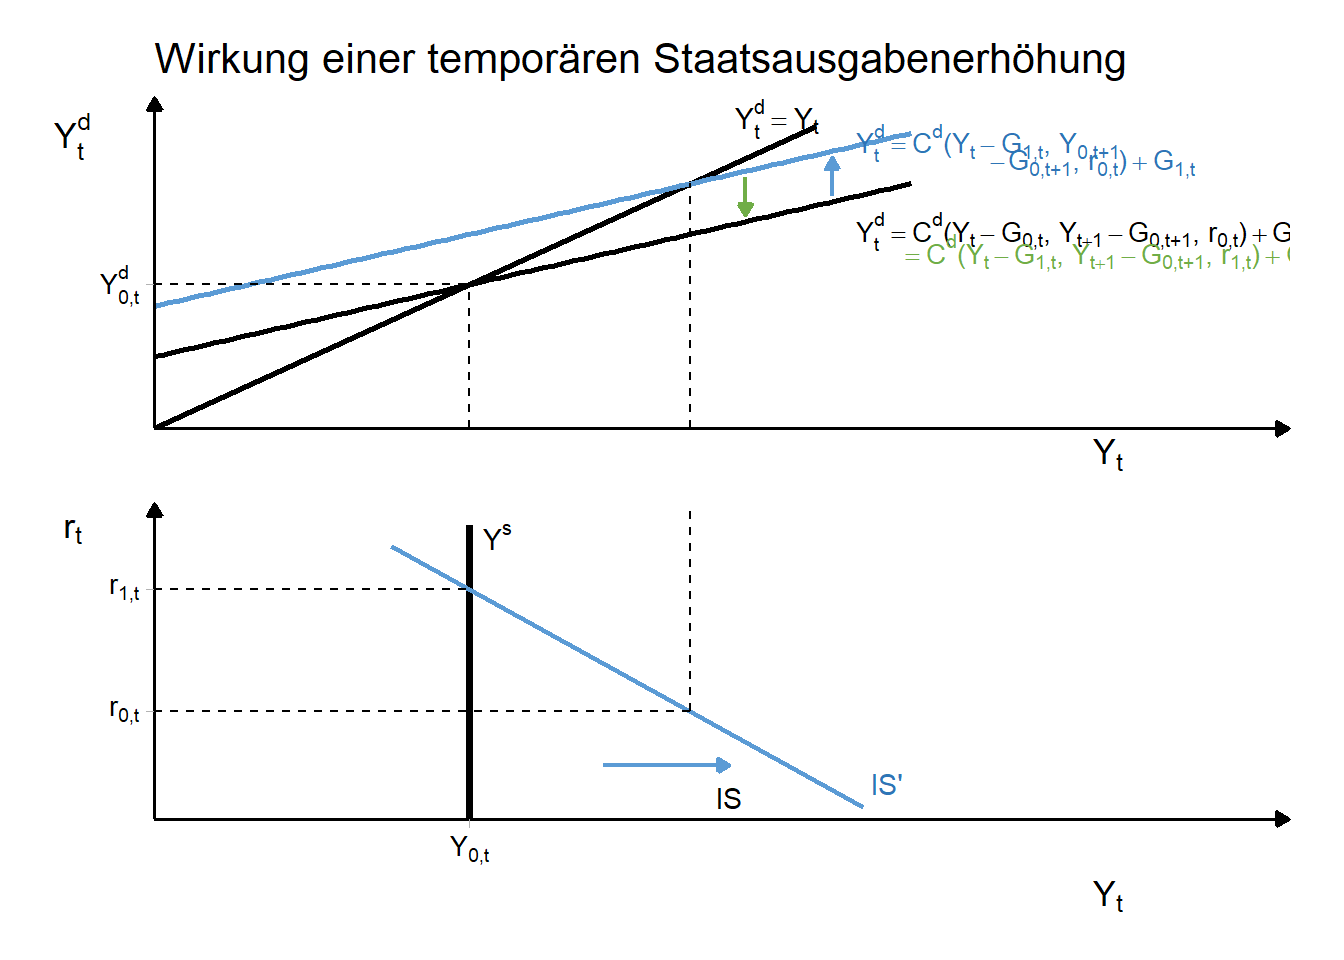
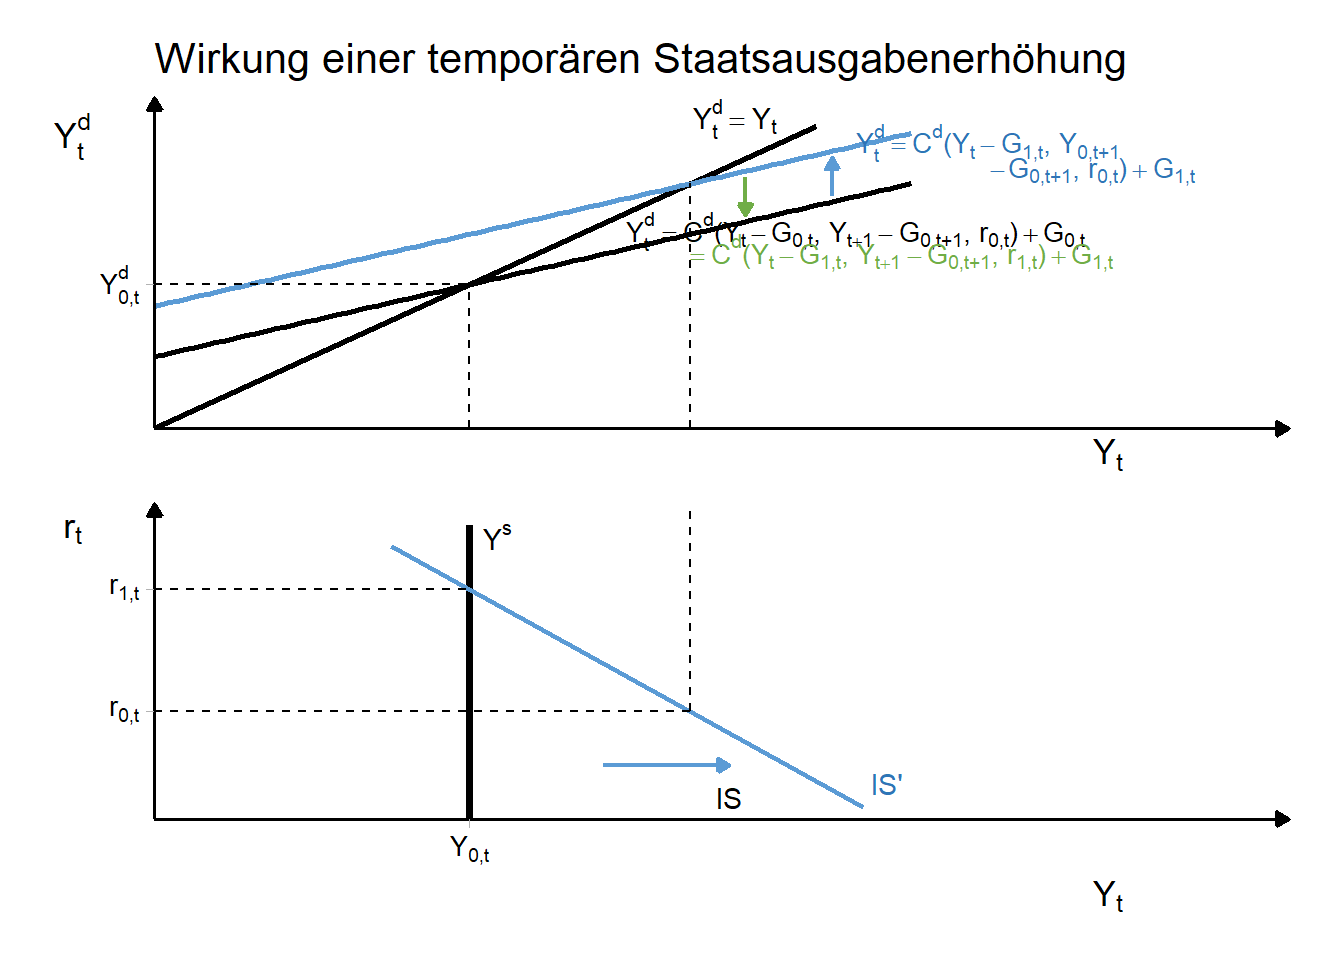
IS Fiskalpolitik

Changed region(s): [[0.4688, 0.2188, 0.9688, 0.2812], [0.75, 0.1562, 0.875, 0.1875], [0.5312, 0.0938, 0.5938, 0.1562]]

diff --git a/docs/Mikromakro.html b/docs/Mikromakro.html
@@ -3034,18 +3034,18 @@ C_{t+1} + S_{t+1} &amp;\leq Y_{t+1} - T_{t+1} + (1 + r_t) S_t
 <span id="cb23-38"><a href="#cb23-38" aria-hidden="true" tabindex="-1"></a>           <span class="at">arrow =</span> <span class="fu">arrow</span>(<span class="at">length =</span> <span class="fu">unit</span>(<span class="fl">0.18</span>, <span class="st">"cm"</span>), <span class="at">type =</span> <span class="st">"closed"</span>), <span class="at">color =</span> <span class="st">"#70AD47"</span>, <span class="at">linewidth =</span> <span class="fl">0.8</span>) <span class="sc">+</span></span>
 <span id="cb23-39"><a href="#cb23-39" aria-hidden="true" tabindex="-1"></a>  </span>
 <span id="cb23-40"><a href="#cb23-40" aria-hidden="true" tabindex="-1"></a>  <span class="co"># Kurvenbeschriftungen</span></span>
-<span id="cb23-41"><a href="#cb23-41" aria-hidden="true" tabindex="-1"></a>  <span class="fu">annotate</span>(<span class="st">"text"</span>, <span class="at">x =</span> <span class="fl">3.95</span>, <span class="at">y =</span> <span class="fl">4.32</span>, <span class="at">label =</span> <span class="fu">expression</span>(Y[t]<span class="sc">^</span>d <span class="sc">==</span> Y[t]), <span class="at">parse =</span> <span class="cn">TRUE</span>, <span class="at">size =</span> <span class="fl">3.8</span>) <span class="sc">+</span></span>
+<span id="cb23-41"><a href="#cb23-41" aria-hidden="true" tabindex="-1"></a>  <span class="fu">annotate</span>(<span class="st">"text"</span>, <span class="at">x =</span> <span class="fl">3.95</span>, <span class="at">y =</span> <span class="fl">4.32</span>, <span class="at">label =</span> <span class="fu">expression</span>(Y[t]<span class="sc">^</span>d <span class="sc">==</span> Y[t]), <span class="at">parse =</span> <span class="cn">TRUE</span>, <span class="at">size =</span> <span class="fl">3.8</span>, <span class="at">hjust=</span><span class="st">"right"</span>) <span class="sc">+</span></span>
 <span id="cb23-42"><a href="#cb23-42" aria-hidden="true" tabindex="-1"></a>  </span>
 <span id="cb23-43"><a href="#cb23-43" aria-hidden="true" tabindex="-1"></a>  <span class="co"># Blaue Beschriftung (oben)</span></span>
 <span id="cb23-44"><a href="#cb23-44" aria-hidden="true" tabindex="-1"></a>  <span class="fu">annotate</span>(<span class="st">"text"</span>, <span class="at">x =</span> <span class="fl">4.45</span>, <span class="at">y =</span> <span class="fl">3.98</span>, <span class="at">hjust =</span> <span class="dv">0</span>, <span class="at">color =</span> <span class="st">"#2E75B6"</span>, <span class="at">size =</span> <span class="fl">3.5</span>,</span>
 <span id="cb23-45"><a href="#cb23-45" aria-hidden="true" tabindex="-1"></a>           <span class="at">label =</span> <span class="fu">expression</span>(Y[t]<span class="sc">^</span>d <span class="sc">==</span> C<span class="sc">^</span>d <span class="sc">*</span> <span class="st">"("</span> <span class="sc">*</span> Y[t] <span class="sc">-</span> G[<span class="st">"1,t"</span>] <span class="sc">*</span> <span class="st">", "</span> <span class="sc">*</span> Y[<span class="st">"0,t+1"</span>])) <span class="sc">+</span></span>
-<span id="cb23-46"><a href="#cb23-46" aria-hidden="true" tabindex="-1"></a>  <span class="fu">annotate</span>(<span class="st">"text"</span>, <span class="at">x =</span> <span class="fl">5.3</span>, <span class="at">y =</span> <span class="fl">3.68</span>, <span class="at">hjust =</span> <span class="dv">0</span>, <span class="at">color =</span> <span class="st">"#2E75B6"</span>, <span class="at">size =</span> <span class="fl">3.5</span>,</span>
+<span id="cb23-46"><a href="#cb23-46" aria-hidden="true" tabindex="-1"></a>  <span class="fu">annotate</span>(<span class="st">"text"</span>, <span class="at">x =</span> <span class="fl">5.3</span>, <span class="at">y =</span> <span class="fl">3.58</span>, <span class="at">hjust =</span> <span class="dv">0</span>, <span class="at">color =</span> <span class="st">"#2E75B6"</span>, <span class="at">size =</span> <span class="fl">3.5</span>,</span>
 <span id="cb23-47"><a href="#cb23-47" aria-hidden="true" tabindex="-1"></a>           <span class="at">label =</span> <span class="fu">expression</span>(<span class="sc">-</span> G[<span class="st">"0,t+1"</span>] <span class="sc">*</span> <span class="st">", "</span> <span class="sc">*</span> r[<span class="st">"0,t"</span>] <span class="sc">*</span> <span class="st">")"</span> <span class="sc">+</span> G[<span class="st">"1,t"</span>])) <span class="sc">+</span></span>
 <span id="cb23-48"><a href="#cb23-48" aria-hidden="true" tabindex="-1"></a>  </span>
 <span id="cb23-49"><a href="#cb23-49" aria-hidden="true" tabindex="-1"></a>  <span class="co"># Schwarze &amp; Grüne Beschriftung (unten)</span></span>
-<span id="cb23-50"><a href="#cb23-50" aria-hidden="true" tabindex="-1"></a>  <span class="fu">annotate</span>(<span class="st">"text"</span>, <span class="at">x =</span> <span class="fl">4.45</span>, <span class="at">y =</span> <span class="fl">2.75</span>, <span class="at">hjust =</span> <span class="dv">0</span>, <span class="at">color =</span> <span class="st">"black"</span>, <span class="at">size =</span> <span class="fl">3.5</span>,</span>
+<span id="cb23-50"><a href="#cb23-50" aria-hidden="true" tabindex="-1"></a>  <span class="fu">annotate</span>(<span class="st">"text"</span>, <span class="at">x =</span> <span class="fl">4.45</span>, <span class="at">y =</span> <span class="fl">2.75</span>, <span class="at">hjust =</span> .<span class="dv">5</span>, <span class="at">color =</span> <span class="st">"black"</span>, <span class="at">size =</span> <span class="fl">3.5</span>,</span>
 <span id="cb23-51"><a href="#cb23-51" aria-hidden="true" tabindex="-1"></a>           <span class="at">label =</span> <span class="fu">expression</span>(Y[t]<span class="sc">^</span>d <span class="sc">==</span> C<span class="sc">^</span>d <span class="sc">*</span> <span class="st">"("</span> <span class="sc">*</span> Y[t] <span class="sc">-</span> G[<span class="st">"0,t"</span>] <span class="sc">*</span> <span class="st">", "</span> <span class="sc">*</span> Y[t<span class="sc">+</span><span class="dv">1</span>] <span class="sc">-</span> G[<span class="st">"0,t+1"</span>] <span class="sc">*</span> <span class="st">", "</span> <span class="sc">*</span> r[<span class="st">"0,t"</span>] <span class="sc">*</span> <span class="st">")"</span> <span class="sc">+</span> G[<span class="st">"0,t"</span>])) <span class="sc">+</span></span>
-<span id="cb23-52"><a href="#cb23-52" aria-hidden="true" tabindex="-1"></a>  <span class="fu">annotate</span>(<span class="st">"text"</span>, <span class="at">x =</span> <span class="fl">4.72</span>, <span class="at">y =</span> <span class="fl">2.45</span>, <span class="at">hjust =</span> <span class="dv">0</span>, <span class="at">color =</span> <span class="st">"#70AD47"</span>, <span class="at">size =</span> <span class="fl">3.5</span>,</span>
+<span id="cb23-52"><a href="#cb23-52" aria-hidden="true" tabindex="-1"></a>  <span class="fu">annotate</span>(<span class="st">"text"</span>, <span class="at">x =</span> <span class="fl">4.72</span>, <span class="at">y =</span> <span class="fl">2.45</span>, <span class="at">hjust =</span> .<span class="dv">5</span>, <span class="at">color =</span> <span class="st">"#70AD47"</span>, <span class="at">size =</span> <span class="fl">3.5</span>,</span>
 <span id="cb23-53"><a href="#cb23-53" aria-hidden="true" tabindex="-1"></a>           <span class="at">label =</span> <span class="fu">expression</span>(<span class="st">""</span> <span class="sc">==</span> C<span class="sc">^</span>d <span class="sc">*</span> <span class="st">"("</span> <span class="sc">*</span> Y[t] <span class="sc">-</span> G[<span class="st">"1,t"</span>] <span class="sc">*</span> <span class="st">", "</span> <span class="sc">*</span> Y[t<span class="sc">+</span><span class="dv">1</span>] <span class="sc">-</span> G[<span class="st">"0,t+1"</span>] <span class="sc">*</span> <span class="st">", "</span> <span class="sc">*</span> r[<span class="st">"1,t"</span>] <span class="sc">*</span> <span class="st">")"</span> <span class="sc">+</span> G[<span class="st">"1,t"</span>])) <span class="sc">+</span></span>
 <span id="cb23-54"><a href="#cb23-54" aria-hidden="true" tabindex="-1"></a>  </span>
 <span id="cb23-55"><a href="#cb23-55" aria-hidden="true" tabindex="-1"></a>  <span class="co"># Achsenanpassung</span></span>
